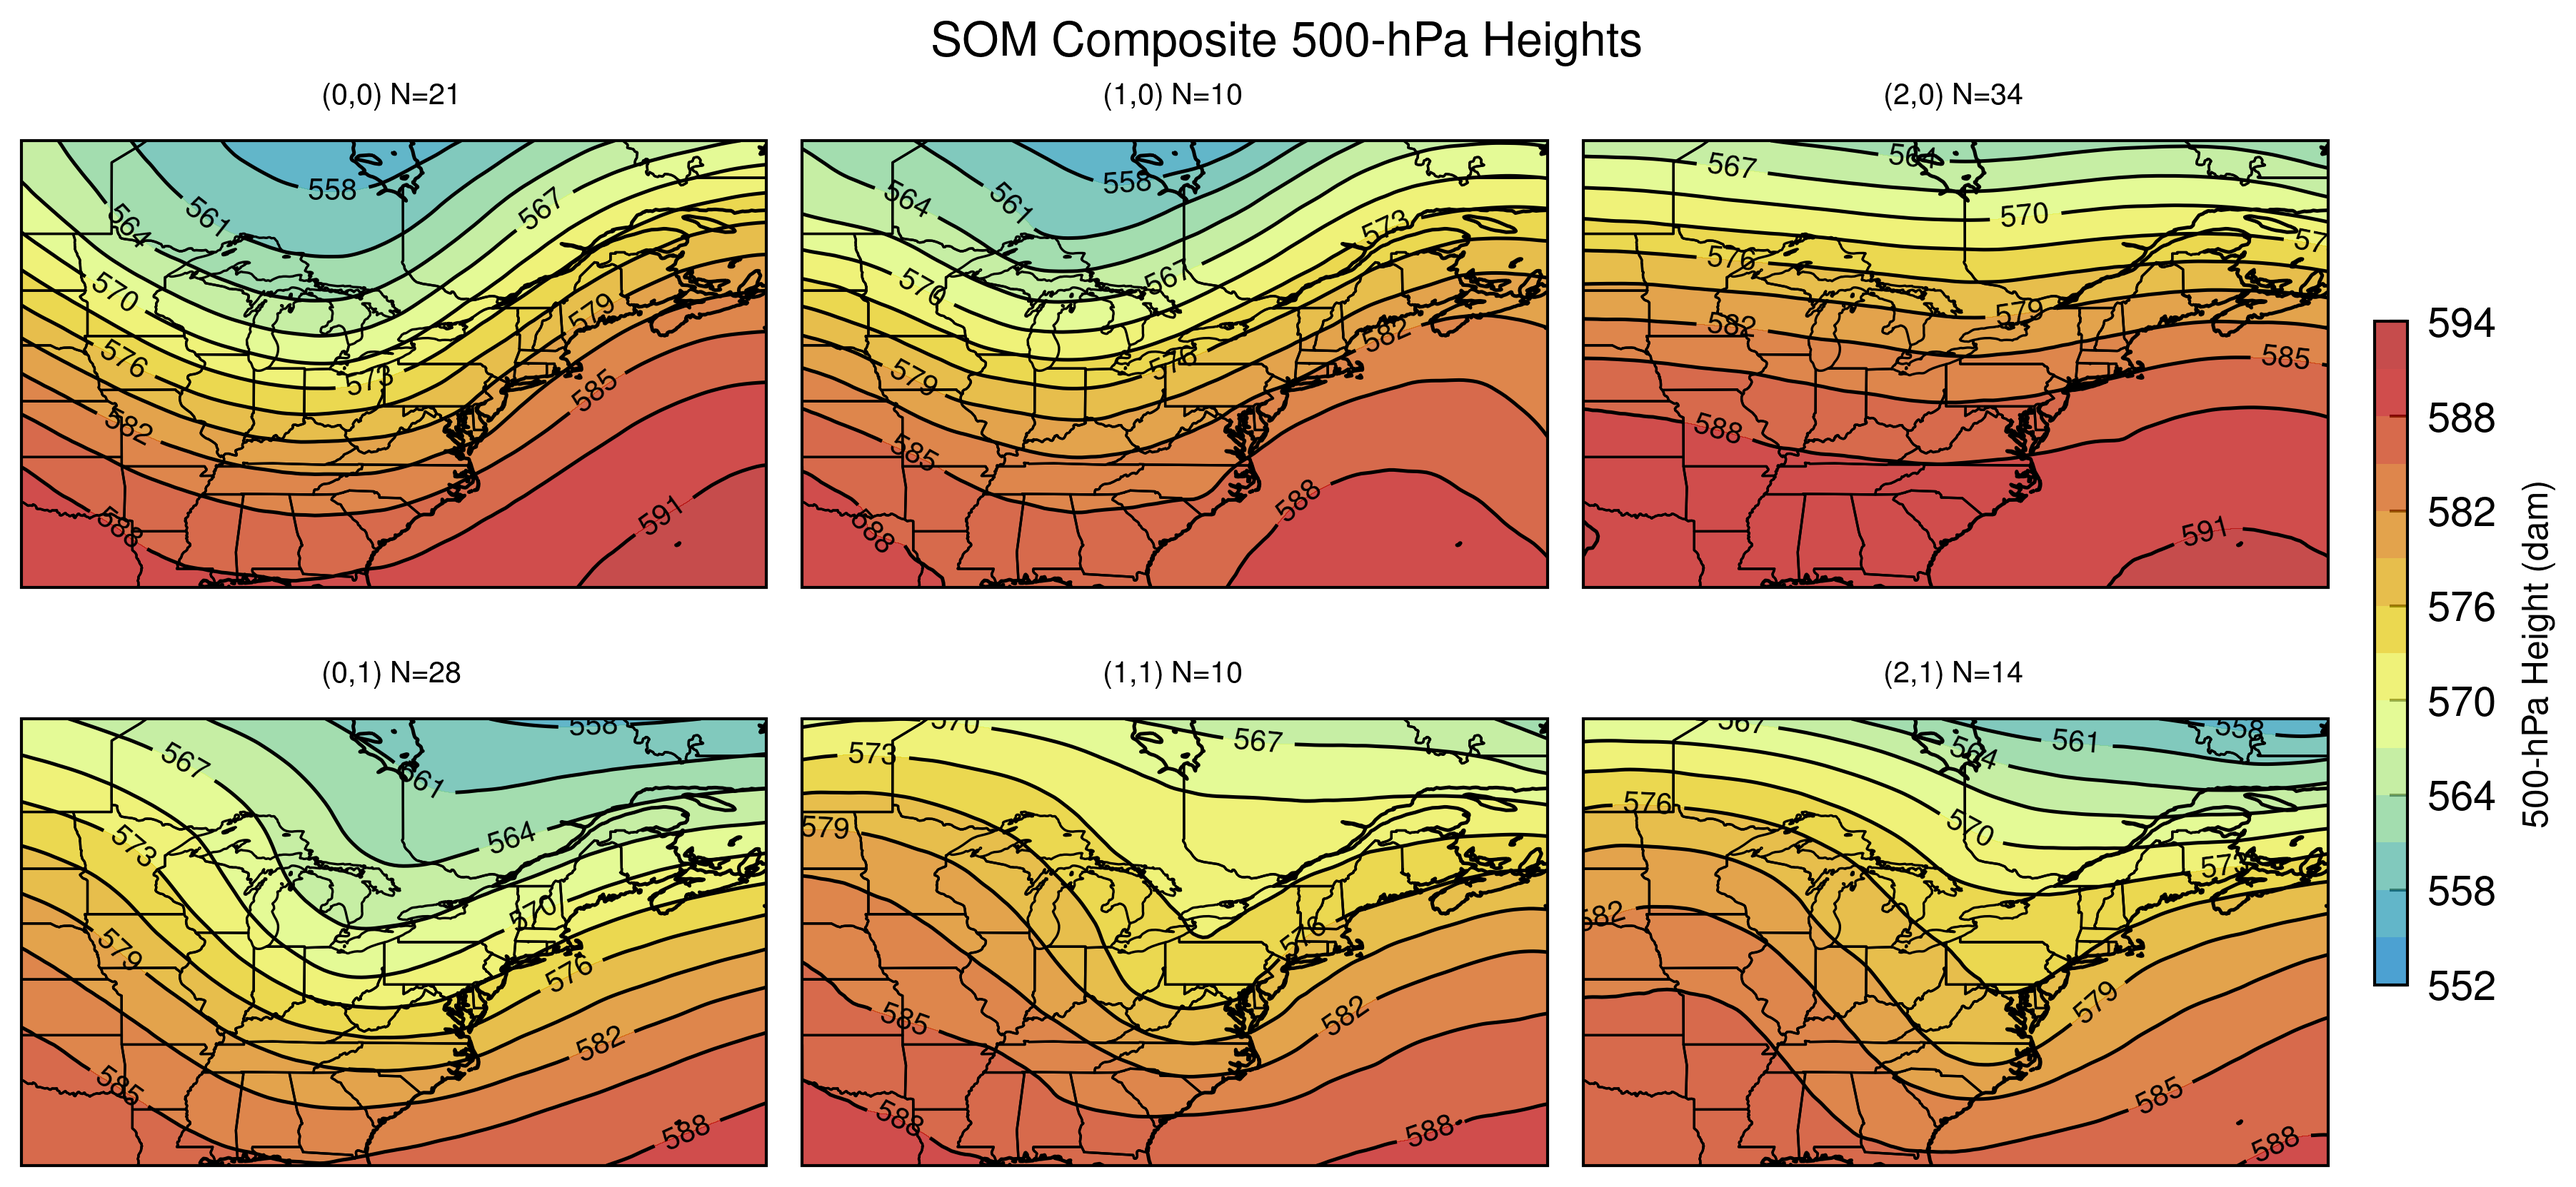
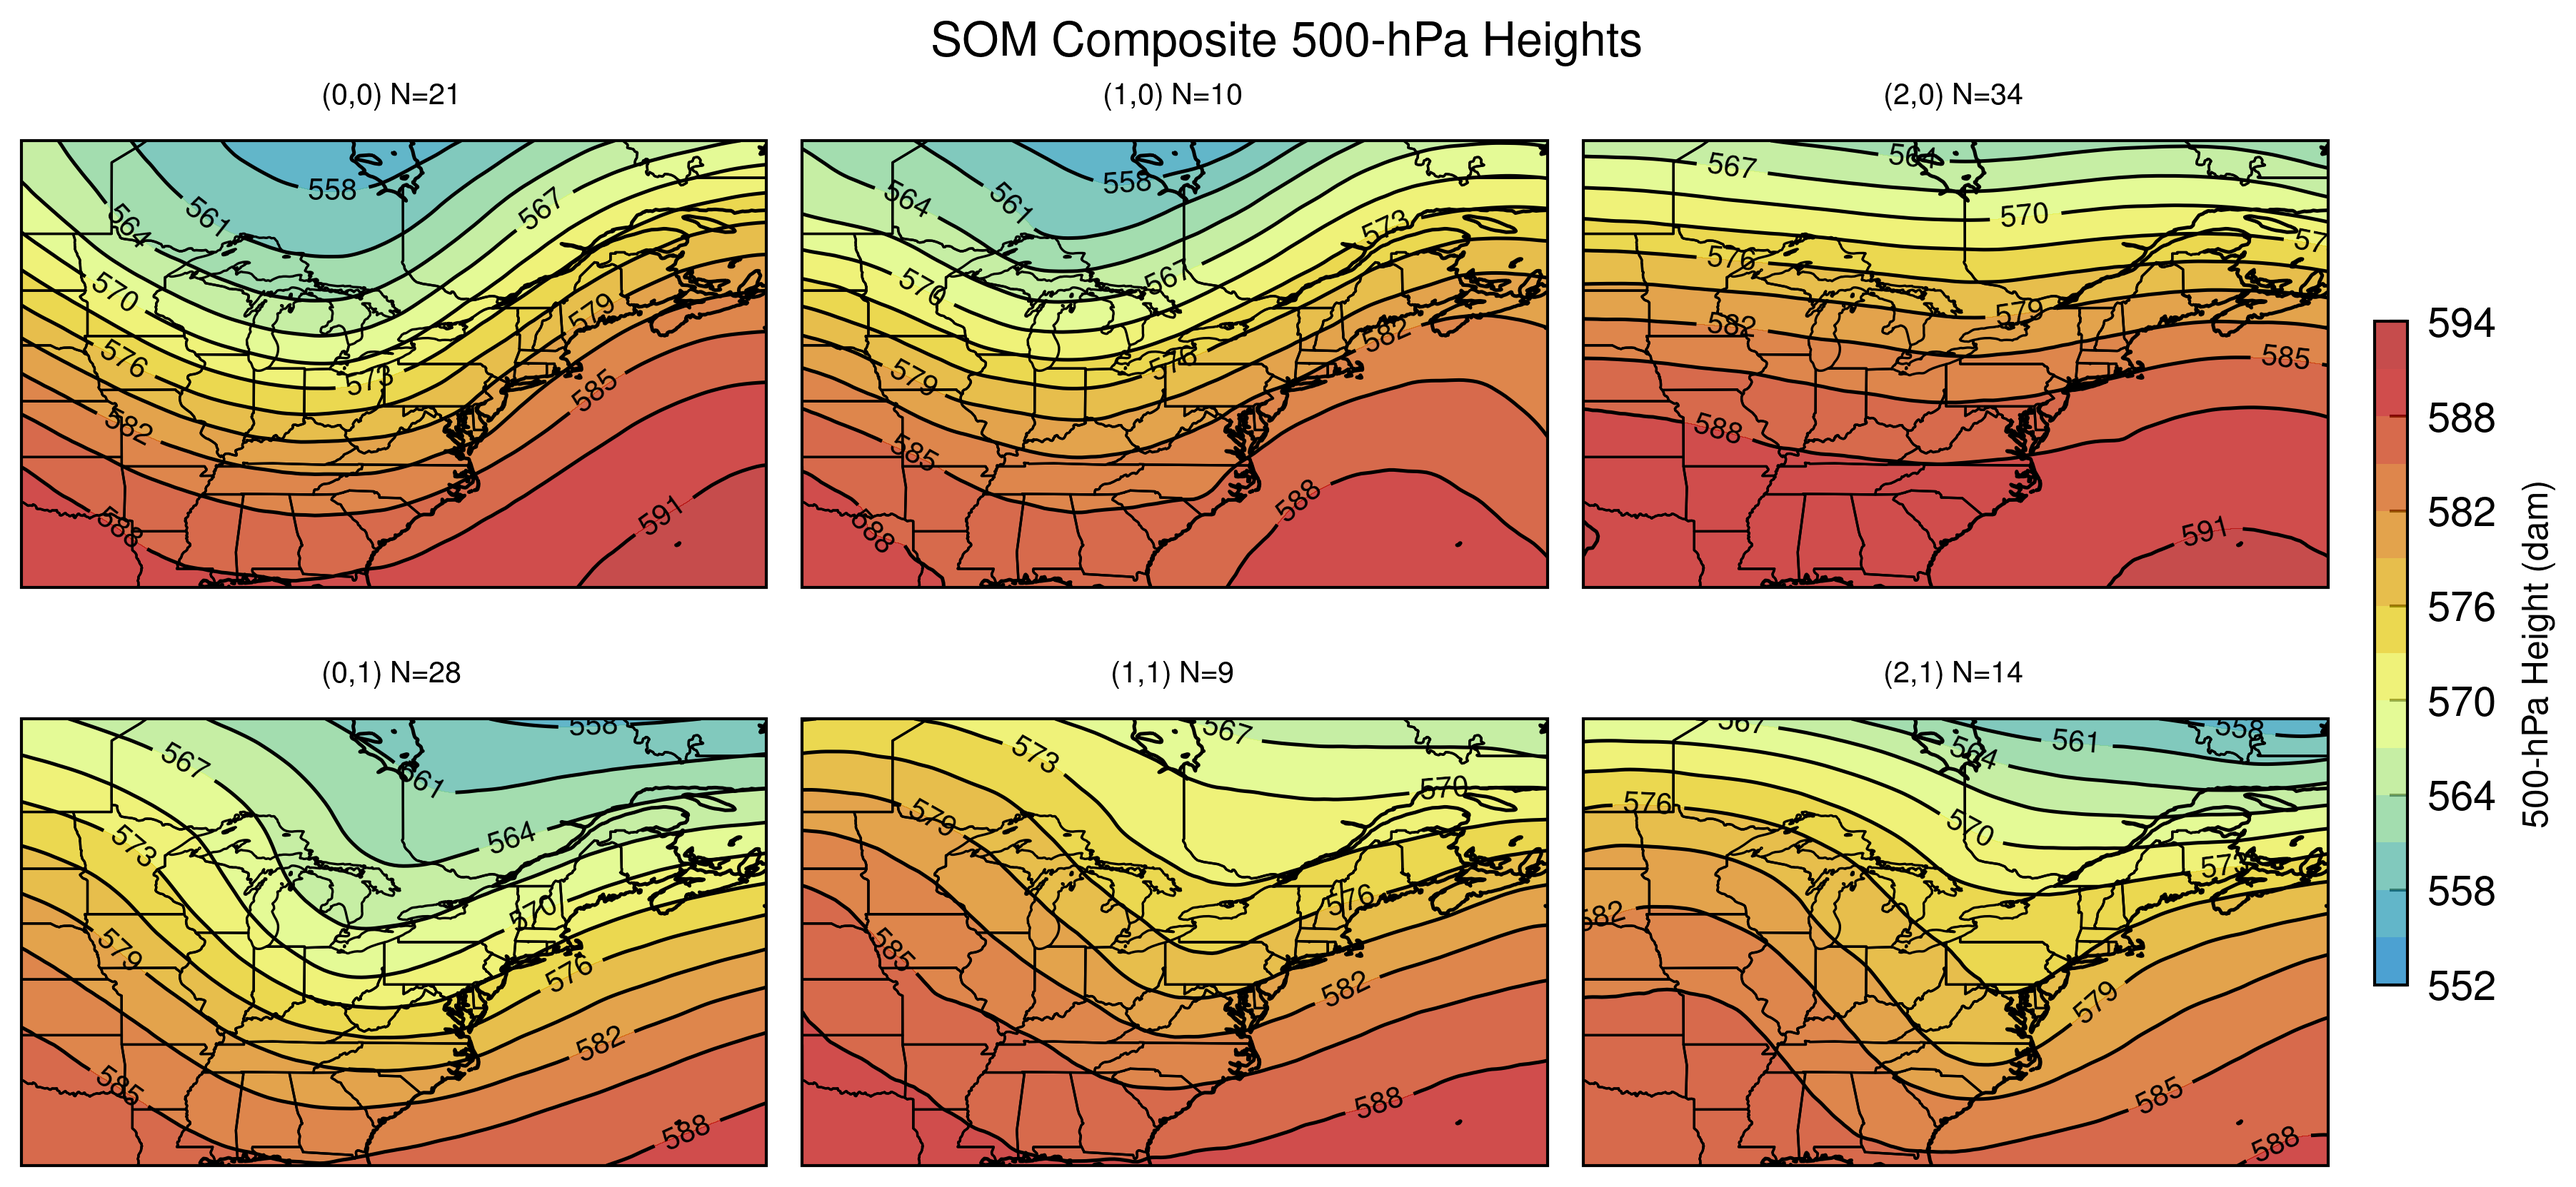
Update Z500 SOM training notebook and add standard deviation height plots
- Added a new section for calculating and plotting the standard deviation of 500-hPa heights.
- Updated the composite mean map section to exclude specific indices.
- Added new standard deviation height plot image.

Changed region(s): [[0.3105, 0.552, 0.621, 0.9814]]

diff --git a/ERA5_download_scripts/ERA5_mslp_1996to2024_warm_season.py b/ERA5_download_scripts/ERA5_mslp_1996to2024_warm_season.py
@@ -1,0 +1,88 @@
+import os
+
+import cdsapi
+
+years = list(range(1996, 2025))
+dataset = "reanalysis-era5-single-levels"
+
+# Output directory
+outdir = "/mnt/drive2/ERA5/NC_files/mslp"
+os.makedirs(outdir, exist_ok=True)
+
+client = cdsapi.Client()
+
+
+for year in years:
+    print(f"Downloading data for year {year}...")
+    request = {
+        "product_type": ["reanalysis"],
+        "variable": ["mean_sea_level_pressure"],
+        "year": str(year),
+        "month": ["05", "06", "07", "08", "09", "10"],
+        "day": [
+            "01",
+            "02",
+            "03",
+            "04",
+            "05",
+            "06",
+            "07",
+            "08",
+            "09",
+            "10",
+            "11",
+            "12",
+            "13",
+            "14",
+            "15",
+            "16",
+            "17",
+            "18",
+            "19",
+            "20",
+            "21",
+            "22",
+            "23",
+            "24",
+            "25",
+            "26",
+            "27",
+            "28",
+            "29",
+            "30",
+            "31",
+        ],
+        "time": [
+            "00:00",
+            "01:00",
+            "02:00",
+            "03:00",
+            "04:00",
+            "05:00",
+            "06:00",
+            "07:00",
+            "08:00",
+            "09:00",
+            "10:00",
+            "11:00",
+            "12:00",
+            "13:00",
+            "14:00",
+            "15:00",
+            "16:00",
+            "17:00",
+            "18:00",
+            "19:00",
+            "20:00",
+            "21:00",
+            "22:00",
+            "23:00",
+        ],
+        "data_format": "netcdf",
+        "download_format": "unarchived",
+        "area": [90, -180, 0, 0],
+    }
+
+    outfile = os.path.join(outdir, f"era5_tp_NWHem_{year}.nc")
+
+    client.retrieve(dataset, request).download(outfile)
